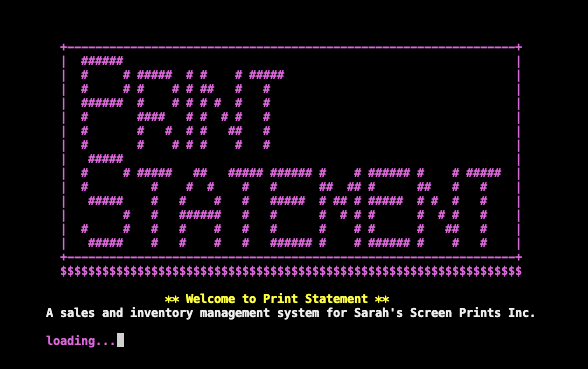
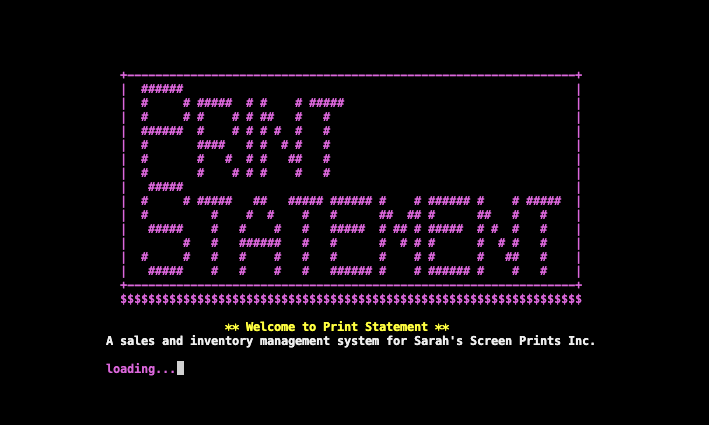
Update readme with design and color features and images

Changed region(s): [[0.0612, 0.1192, 0.9184, 0.9539]]

diff --git a/README.md b/README.md
@@ -195,6 +195,22 @@ Information is presented in a clear and organized manner, with important details
 - **Responsive Design**: Provides a seamless experience across all devices.
 - **Interactive Elements**: Engages users through dynamic feedback.
 
+### Colours
+
+- Utilised bright colours through importing colorama, allowing for vibrancy and intuitive navigation.
+
+![colorama](docs/colorama.png)
+
+- Magenta utilised for an eye-catching welcome screen banner.
+- Green used for menus and successful updates.
+- Yellow utilised for loading... and updating messaging.
+- Red used for warnings and invalid input.
+- White used for general inputting and display.
+
+![welcome-banner](docs/features/welcome.png)
+
+![color-palette](docs/palette.png)
+
 ## Features
 
 ### User-friendly Command Line Interface (CLI)
@@ -242,6 +258,10 @@ Information is presented in a clear and organized manner, with important details
 
 ### Developer Convenience
 - **Clear Code Structure**: Well-organized code with comments and functions for different tasks, making it easy to maintain and extend.
+
+- **Banner** Logo Banner made to enhance user experience and display name with vibrancy enhancing user experience.
+
+![print-statement-banner](docs/banner.png)
 
 - **Welcome Screen** Welcome user to Print Statement with brief synopsis, typing print and loading... feature.
 
